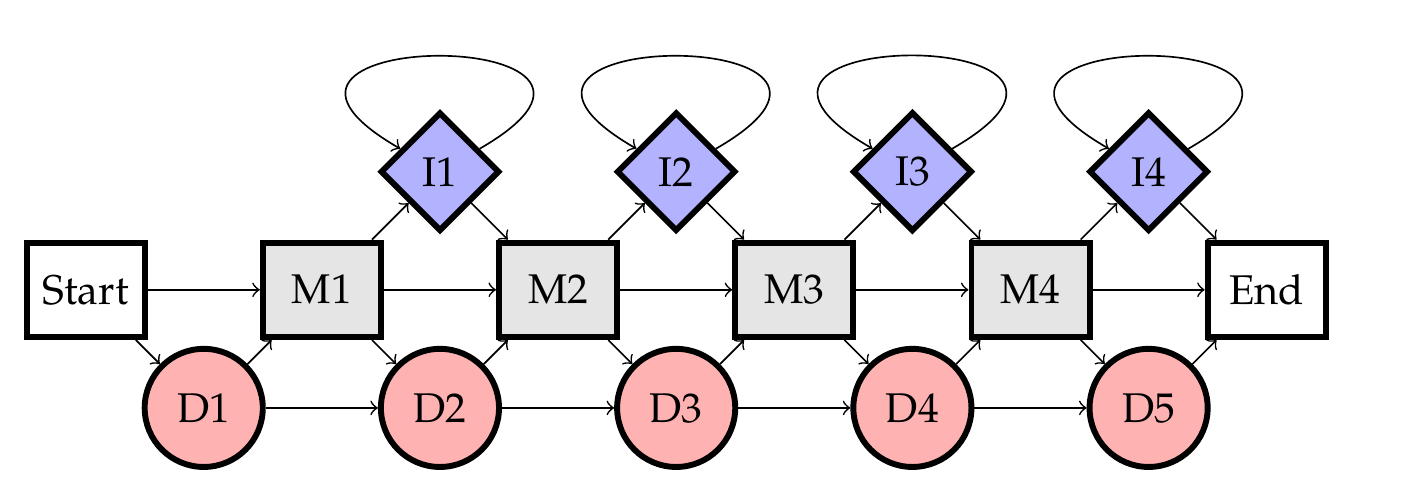
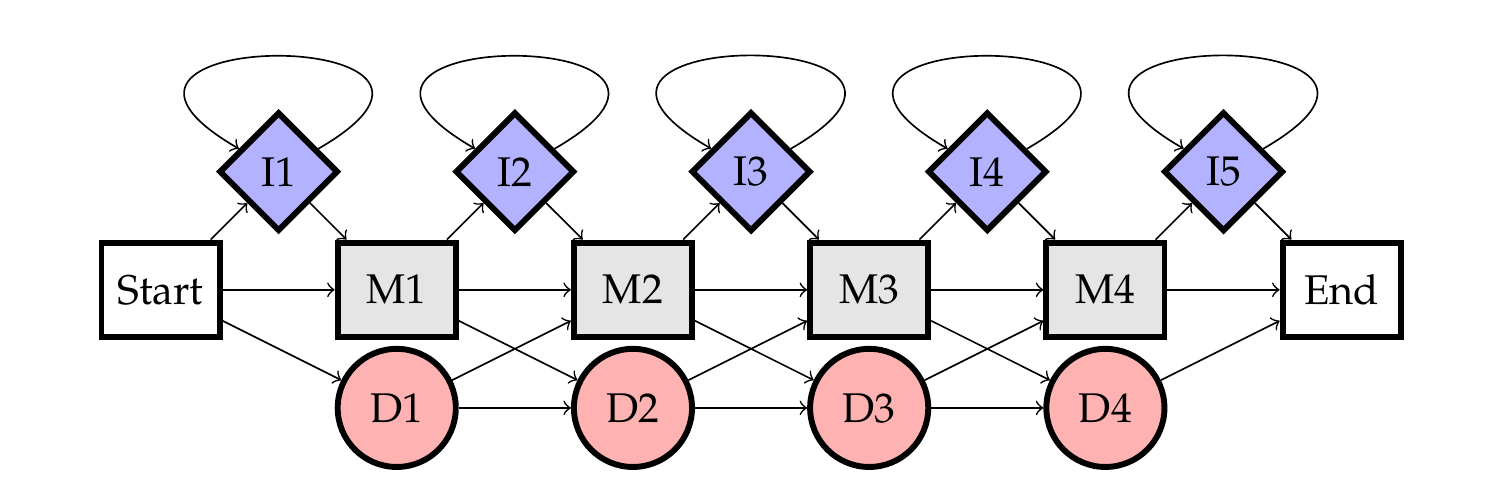
seems to run

diff --git a/bibook/msa/img/phmm.tex b/bibook/msa/img/phmm.tex
@@ -14,19 +14,19 @@
 
 % Define the nodes
 \node[state] (S) at (-2, 0) {Start};
-\node[delete] (D1) at (-1, -1) {D1};
+\node[insert] (I1) at (-1, 1) {I1};
+\node[delete] (D1) at (0, -1) {D1};
 \node[match] (M1) at (0, 0) {M1};
-\node[insert] (I1) at (1, 1) {I1};
-\node[delete] (D2) at (1, -1) {D2};
+\node[insert] (I2) at (1, 1) {I2};
+\node[delete] (D2) at (2, -1) {D2};
 \node[match] (M2) at (2, 0) {M2};
-\node[insert] (I2) at (3, 1) {I2};
-\node[delete] (D3) at (3, -1) {D3};
+\node[insert] (I3) at (3, 1) {I3};
+\node[delete] (D3) at (4, -1) {D3};
 \node[match] (M3) at (4, 0) {M3};
-\node[insert] (I3) at (5, 1) {I3};
-\node[delete] (D4) at (5, -1) {D4};
+\node[insert] (I4) at (5, 1) {I4};
+\node[delete] (D4) at (6, -1) {D4};
 \node[match] (M4) at (6, 0) {M4};
-\node[insert] (I4) at (7, 1) {I4};
-\node[delete] (D5) at (7, -1) {D5};
+\node[insert] (I5) at (7, 1) {I5};
 \node[state] (E) at (8, 0) {End};
 
 % Define the transitions
@@ -36,39 +36,38 @@
 \draw[->] (M3) -- (M4);
 \draw[->] (M4) -- (E);
 
-\draw[->] (M1) -- (I1);
-\draw[->] (M2) -- (I2);
-\draw[->] (M3) -- (I3);
-\draw[->] (M4) -- (I4);
+\draw[->] (S) -- (I1);
+\draw[->] (M1) -- (I2);
+\draw[->] (M2) -- (I3);
+\draw[->] (M3) -- (I4);
+\draw[->] (M4) -- (I5);
 
 \draw[->] (S) -- (D1);
 \draw[->] (M1) -- (D2);
 \draw[->] (M2) -- (D3);
 \draw[->] (M3) -- (D4);
-\draw[->] (M4) -- (D5);
 
-\draw[->] (D1) -- (M1);
-\draw[->] (D2) -- (M2);
-\draw[->] (D3) -- (M3);
-\draw[->] (D4) -- (M4);
-\draw[->] (D5) -- (E);
+\draw[->] (D1) -- (M2);
+\draw[->] (D2) -- (M3);
+\draw[->] (D3) -- (M4);
+\draw[->] (D4) -- (E);
 
 \draw[->] (D1) -- (D2);
 \draw[->] (D2) -- (D3);
 \draw[->] (D3) -- (D4);
-\draw[->] (D4) -- (D5);
 
-
-\draw[->] (I1) -- (M2);
-\draw[->] (I2) -- (M3);
-\draw[->] (I3) -- (M4);
-\draw[->] (I4) -- (E);
+\draw[->] (I1) -- (M1);
+\draw[->] (I2) -- (M2);
+\draw[->] (I3) -- (M3);
+\draw[->] (I4) -- (M4);
+\draw[->] (I5) -- (E);
 
 % Add self-transitions for insert states
 \draw[->, loop above] (I1) to [out=30, in=150, loop] (I1);
 \draw[->, loop above] (I2) to [out=30, in=150, loop] (I2);
 \draw[->, loop above] (I3) to [out=30, in=150, loop] (I3);
 \draw[->, loop above] (I4) to [out=30, in=150, loop] (I4);
+\draw[->, loop above] (I5) to [out=30, in=150, loop] (I5);
 
 
 \end{tikzpicture}
